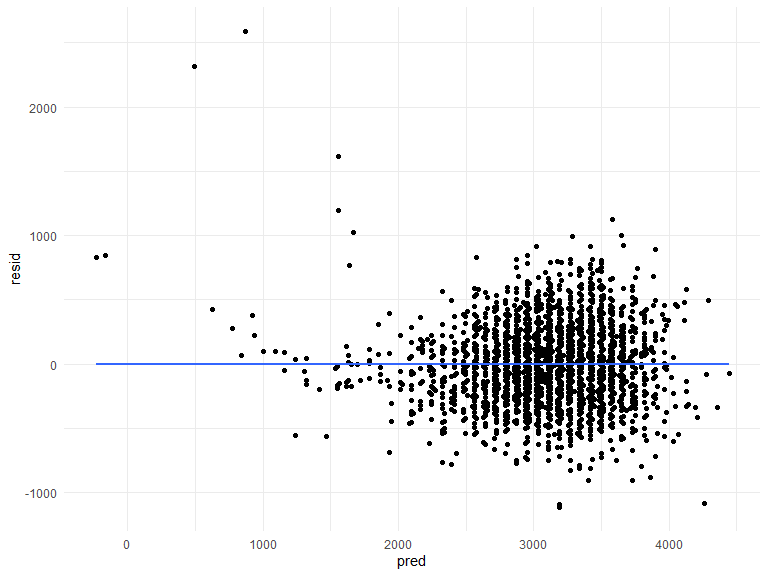
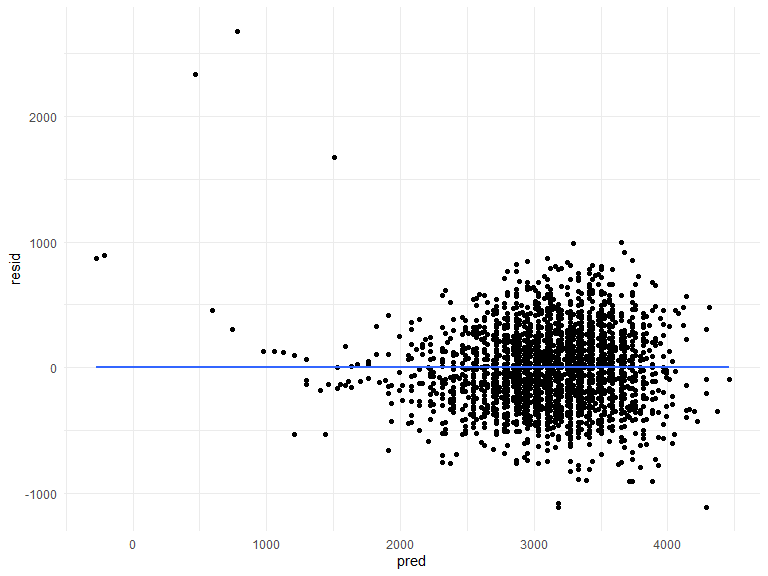
some editings

diff --git a/p8105_hw6_yc3883.md b/p8105_hw6_yc3883.md
@@ -57,8 +57,7 @@ train_df = sample_n(child_bw_df, 3500)
 test_df = anti_join(child_bw_df, train_df)
 ```
 
-Propose a regression model for birthweight base on baby’s head
-circumference at birth and baby’s length at birth
+Propose a regression model using birthweight as response.
 
 Check assumption of regression
 
@@ -90,7 +89,7 @@ bwt_den =
 
 Describe the modeling process:
 
-Fit the model. We have two possible models for candidates. Model\_1 uses
+Fit the model. We have two possible models as candidates. Model\_1 uses
 “bhead” and “blength” as predictors. Model\_2 uses “bhead” and “gaweeks”
 as predictors. We will compare the cross-validated prediction error of
 these models. Also, we can also see the p-value for different variables
@@ -145,9 +144,9 @@ model_1 %>%
     ## # A tibble: 3 x 5
     ##   term        estimate std.error statistic   p.value
     ##   <chr>          <dbl>     <dbl>     <dbl>     <dbl>
-    ## 1 (Intercept)  -5998.     107.       -56.3 0        
-    ## 2 bhead          149.       3.89      38.3 2.46e-268
-    ## 3 blength         82.3      2.30      35.8 1.69e-239
+    ## 1 (Intercept)  -6114.     108.       -56.4 0        
+    ## 2 bhead          148.       3.87      38.3 8.81e-269
+    ## 3 blength         85.1      2.32      36.7 7.14e-250
 
 ``` r
 model_2 %>% 
@@ -156,11 +155,11 @@ model_2 %>%
 ```
 
     ## # A tibble: 3 x 5
-    ##   term        estimate std.error statistic  p.value
-    ##   <chr>          <dbl>     <dbl>     <dbl>    <dbl>
-    ## 1 (Intercept)  -5195.     120.       -43.3 0       
-    ## 2 bhead          221.       3.74      59.0 0       
-    ## 3 gaweeks         22.5      1.91      11.8 2.59e-31
+    ##   term        estimate std.error statistic   p.value
+    ##   <chr>          <dbl>     <dbl>     <dbl>     <dbl>
+    ## 1 (Intercept)  -5199.     122.       -42.7 1.50e-321
+    ## 2 bhead          218.       3.76      58.0 0        
+    ## 3 gaweeks         24.6      1.93      12.7 2.06e- 36
 
 Comparing model\_1 and model\_2, model\_1 has a lower cross-validated
 prediction error. Also, the two predictors in model\_1 show a stronger
@@ -190,7 +189,7 @@ model1_des_plot
 Compare your model to two others:
 
 A. One using length at birth and gestational age as predictors (main
-effects only) B. One using head circumference, length, sex, and all
+effects only). B. One using head circumference, length, sex, and all
 interactions (including the three-way interaction) between these
 
 Generate the A and B models
@@ -301,7 +300,7 @@ quantile(rs_est$r.squared, probs = c(0.025, 0.975))
 ```
 
     ##      2.5%     97.5% 
-    ## 0.8941340 0.9269443
+    ## 0.8938556 0.9268260
 
 ``` r
 ggp_rs_est = 
@@ -314,9 +313,9 @@ ggp_rs_est
 
 <img src="p8105_hw6_yc3883_files/figure-gfm/unnamed-chunk-10-1.png" width="90%" />
 
-The distribution of estimated r^2 has a mean of 0.9115249, which
+The distribution of estimated r^2 has a mean of 0.9114124, which
 represents a overrall strong association between “tmax” and “tmin”. The
-standard deviation of the distribution is 0.0083679.
+standard deviation of the distribution is 0.0083791.
 
 ## Problem 2 (c)
 
@@ -344,16 +343,20 @@ quantile(log_est$log_b0b1, probs = c(0.025, 0.975))
 ```
 
     ##     2.5%    97.5% 
-    ## 1.965238 2.058069
+    ## 1.964538 2.058527
 
 ``` r
 ggp_log_est = 
   log_est %>% 
   ggplot(aes(x = log_b0b1)) +
   geom_density()
+
+ggp_log_est
 ```
 
-The distribution of estimated log(β0∗β1) has a mean of 2.0123558. The
-standard deviation of the distribution is 0.0237067. This distribution
-is may be more approach normal distribution compared with the estimated
-r^2 distribution, which has a little bit shift to right.
+<img src="p8105_hw6_yc3883_files/figure-gfm/unnamed-chunk-11-1.png" width="90%" />
+
+The distribution of estimated log(β0∗β1) has a mean of 2.0127064. The
+standard deviation of the distribution is 0.023617. This distribution is
+may be more approach normal distribution compared with the estimated r^2
+distribution, which has a little bit shift to right.
